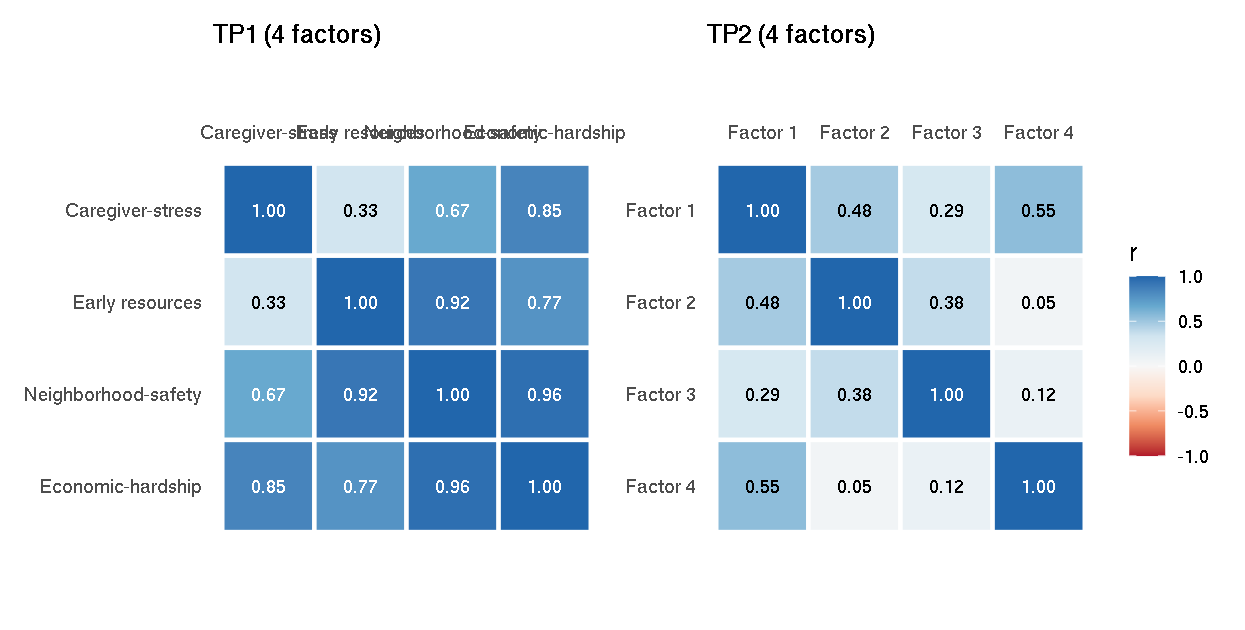
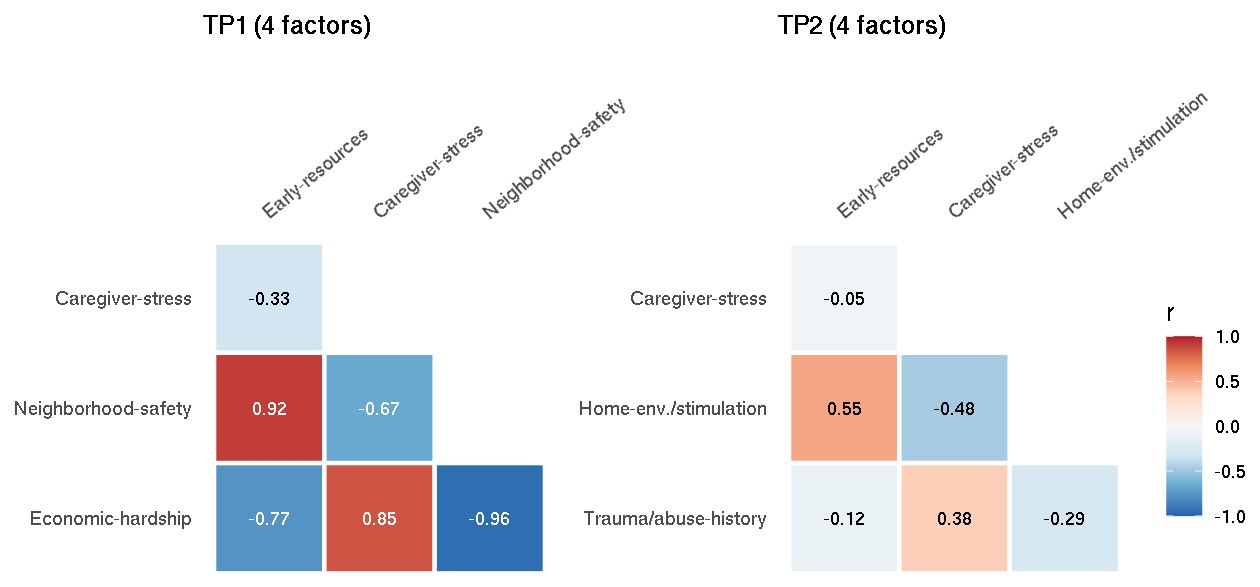
close to final draft

diff --git a/main.tex b/main.tex
@@ -317,83 +317,16 @@
     \vspace{-0.25cm}
     \begin{itemize}
       \setlength\itemsep{0.1em}
-      \item We fit each window on 5 independently-resampled folds: TP1 agreed on only 3, TP2 on just 1.
-      \item Held-out sample poorly fit at both timepoints (CFI $\geq$0.95, RMSEA $\leq$0.06 are the usual thresholds).
+      \item Held-out fit: TP1 fails CFI (0.903 vs.\ conventional threshold of 0.95) but clears
+        RMSEA (0.048 vs.\ conventional threshold of 0.06); TP2 fails both (0.798, 0.107).
       \item Adding IBQR, GLED-TP2, and CHAOS post-preregistration changes item grouping but not instability.
     \end{itemize}
 
     \vspace{-0.7cm}
     \begin{figure}[ht]
       \centering
-      \includegraphics[width=\textwidth]{figures/fold_loading_stability_adicoi_combined.png}
+      \includegraphics[width=0.95\textwidth]{figures/fold_loading_stability_adicoi_combined.png}
     \end{figure}
-  \end{block}
-
-  \vspace{-0.6cm}
-  \begin{block}{H2 \& H3: 0 of 27 Effects Confirmatory}
-    \vspace{-0.2cm}
-    \textbf{H2}: outcome $\sim$ 4 factors + age + site, simultaneous.
-    \\
-    \textbf{H3}: H2 + each wave's clearest promotive $\times$ adversity
-    interaction.
-
-    \vspace{-0.35cm}
-    \begin{figure}[ht]
-      \centering
-      \includegraphics[width=\textwidth]{figures/h2h3_forest_plot.png}
-    \end{figure}
-
-    \vspace{-0.2cm}
-    \begin{itemize}
-      \setlength\itemsep{0.1em}
-      \item TP1's intervals are wide -- factors highly collinear
-        (pairwise $|r|$ up to 0.96), entered simultaneously.
-      \item Left-strip color = factor (H2) or interaction's promotive
-        factor (H3); same color = same factor in both panels (e.g.
-        Early-resources is gold in both waves).
-    \end{itemize}
-
-    \begin{columns}[t]
-      \begin{column}{0.5\textwidth}
-        \begin{figure}[ht]
-          \centering
-          \includegraphics[width=0.92\textwidth]{figures/factor_correlation_heatmap.png}
-        \end{figure}
-      \end{column}
-      \begin{column}{0.5\textwidth}
-        \begin{figure}[ht]
-          \centering
-          \includegraphics[width=0.92\textwidth]{figures/bronfenbrenner_tp1.png}
-        \end{figure}
-      \end{column}
-    \end{columns}
-  \end{block}
-\end{column}
-
-\separatorcolumn
-
-\begin{column}{\colwidth}
-  \begin{block}{Supplementary (Not Preregistered): Confounds Explain Only Part of the Pattern}
-    \vspace{-0.2cm}
-    \textbf{Marginal (one-factor-at-a-time) models} -- drop every
-    other factor covariate, keep age/site only:
-
-    \vspace{-0.5cm}
-    \begin{figure}[ht]
-      \centering
-      \includegraphics[width=\textwidth]{figures/marginal_effect_scatter_tp1.png}
-    \end{figure}
-    \vspace{-0.2cm}
-    \begin{itemize}
-      \setlength\itemsep{0.1em}
-      \item TP1's only 2 outcomes tested (SPM-2, MAP-DB) are both
-        caregiver-reported on nearly the same sample ($r=0.437$).
-      \item \textbf{Cross-timepoint check}: shared items are
-        adversity-heavy, fit actually worse across chains and folds.
-      \item \textbf{SES check}: maternal ed./income shrink but don't
-        eliminate associations -- partial confounding; doesn't explain
-        ADI/COI pairing.
-    \end{itemize}
   \end{block}
 
   \vspace{-0.5cm}
@@ -408,9 +341,9 @@
       \begin{column}{0.49\linewidth}
         \centering\textbf{TP1}\\[3pt]
         \vspace{-0.3cm}
-        \factorbox{factorCaregiverStress}{Caregiver-stress}{PACEs+, ES4A+, PSS-4$-$, Discrim.$-$, E-HITS$-$, CCR-Inf+, IBQ-R$-$}
-        \vspace{-0.5cm}
         \factorbox{factorEarlyResources}{Early-resources}{COI+, ADI$-$, Breastfeeding+, MLDS$-$ (n.s.)}
+        \vspace{-0.5cm}
+        \factorbox{factorCaregiverStress}{Caregiver-stress}{PACEs+, ES4A+, PSS-4$-$, Discrim.$-$, E-HITS$-$, CCR-Inf+, IBQ-R$-$}
         \vspace{-0.5cm}
         \factorbox{factorNbhdSafety}{Nbhd.-safety}{Safety+, Eviction$-$, Tree canopy+}
         \vspace{-0.5cm}
@@ -419,9 +352,9 @@
       \begin{column}{0.49\linewidth}
         \centering\textbf{TP2}\\[3pt]
         \vspace{-0.3cm}
-        \factorbox{factorCaregiverStress}{Caregiver-stress}{PSS-4+, Discrim.+, CHAOS+, ES4A$-$}
+        \factorbox{factorEarlyResources}{Early-resources}{COI+, ADI$-$}
         \vspace{-0.5cm}
-        \factorbox{factorEarlyResources}{Early-resources}{ADI+, COI$-$}
+        \factorbox{factorCaregiverStress}{Caregiver-stress}{PSS-4$-$, Discrim.$-$, CHAOS$-$, ES4A+}
         \vspace{-0.5cm}
         \factorbox{factorHomeEnv}{Home-env./stimulation}{HOME-ES+, HOME-CS+, PACEs(retro)+, Hardship$-$, ScreenQ$-$, Safety (n.s.)}
         \vspace{-0.5cm}
@@ -430,36 +363,82 @@
     \end{columns}
 
     \vspace{0.05cm}
-    {\fontsize{9}{9.5}\selectfont\setlength{\parskip}{0pt}
+    {\fontsize{11}{11.5}\selectfont\setlength{\parskip}{0pt}
     Signs = holdout loading direction (not magnitude); TP2 realigned to
     TP1's orientation where factors recur (ADI/COI,
     PSS-4/ES4A/Discrimination), since BEFA's sign is arbitrary per wave.
     n.s. = not significant.\par}
   \end{block}
 
-  \vspace{-0.3cm}
+  \vspace{-0.7cm}
+  \begin{figure}[ht]
+    \centering
+    \includegraphics[width=0.95\textwidth]{figures/factor_correlation_heatmap.png}
+  \end{figure}
+\end{column}
+
+\separatorcolumn
+
+\begin{column}{\colwidth}
+  \begin{block}{H2 \& H3: 0 of 27 Effects Confirmatory}
+    \vspace{-0.2cm}
+    \textbf{H2}: outcome $\sim$ 4 factors + age + site, simultaneous.
+    \\
+    \textbf{H3}: H2 + each wave's clearest promotive $\times$ adversity
+    interaction.
+
+    \vspace{-0.35cm}
+    \begin{figure}[ht]
+      \centering
+      \includegraphics[width=0.8\textwidth]{figures/h2h3_forest_plot.png}
+    \end{figure}
+  \end{block}
+
+  \vspace{-0.8cm}
+
+  \begin{block}{Supplementary (Not Preregistered): Confounds Explain Only Part of the Pattern}
+    \vspace{-0.2cm}
+    \textbf{Marginal (one-factor-at-a-time) models} -- drop every
+    other factor covariate, keep age/site only:
+
+    \vspace{-0.55cm}
+    \begin{figure}[ht]
+      \centering
+      \includegraphics[width=0.85\textwidth]{figures/marginal_effect_scatter_tp1.png}
+    \end{figure}
+    \vspace{-0.5cm}
+    \begin{itemize}
+      \setlength\itemsep{0.1em}
+      \item TP1's only 2 outcomes tested (SPM-2, MAP-DB) are both
+        caregiver-reported on nearly the same sample ($r=0.437$).
+      \item \textbf{Cross-timepoint check}: shared items are
+        adversity-heavy, fit actually worse across chains and folds.
+      \item \textbf{SES check}: partialling out maternal ed./income
+        (+ site) doesn't shrink ADI/COI's correlation ($-0.69$ to
+        $-0.73$) -- but shrinks breastfeeding/language-exposure's link
+        to them near zero.
+    \end{itemize}
+  \end{block}
+
+  \vspace{-0.6cm}
 
   \begin{block}{Conclusions \& Future Directions}
-    \vspace{-0.2cm}
-    \begin{itemize}
-      \setlength\itemsep{0.15em}
-      \item Neither window's structure reproduced across folds or
-        holdout.
-      \item Absence of evidence for H2/H3 association.
-      \item TP1's factor collinearity limits  independent signal from any one factor.
-      \item ADI/COI (neighborhood-level) correlate only $-0.24$ to
-        $-0.35$ with the household-level items (breastfeeding,
-        language exposure) they'd been bundled with -- distinguishable,
-        not redundant.
-      \item \textbf{Food for thought}: TP1's Early-resources,
-        Nbhd.-safety, and Econ.-hardship factors intercorrelate up to
-        0.96, yet ADI/COI stay distinguishable from household items --
-        mixed evidence for Bronfenbrenner-style nested levels, worth
-        designing a direct test for.
-      \item \textbf{Next step}: cross-wave measurement-invariance test
-        on shared items -- developmental change vs. instrument-switching.
-      \item Revisit as TP2's rolling-enrollment N grows.
-    \end{itemize}
+    \vspace{-0.35cm}
+      \begin{itemize}
+        \setlength\itemsep{0.15em}
+        \item Neither window reproduced -- but ADI/COI's correlation
+          stayed stable ($r=-0.69$ TP1, $-0.70$ TP2).
+        \item Absence of evidence for H2/H3 association.
+        \item TP1's factor collinearity limits independent signal from
+          any one factor.
+        \item \textbf{Food for thought}: neighborhood factors merge
+          ($|r|$ up to 0.96), yet ADI/COI stay distinct from household
+          items (SES check) -- nested (Bronfenbrenner) levels? Next:
+          CFA, nested vs.\ single-factor, on holdout.
+        \item \textbf{Next step}: as HBCD's rolling enrollment grows
+          TP2's N, run a cross-wave measurement-invariance test on
+          shared items to disambiguate developmental change vs.\ instrument-switching.
+      \end{itemize}
   \end{block}
 
   \vspace{-0.3cm}
